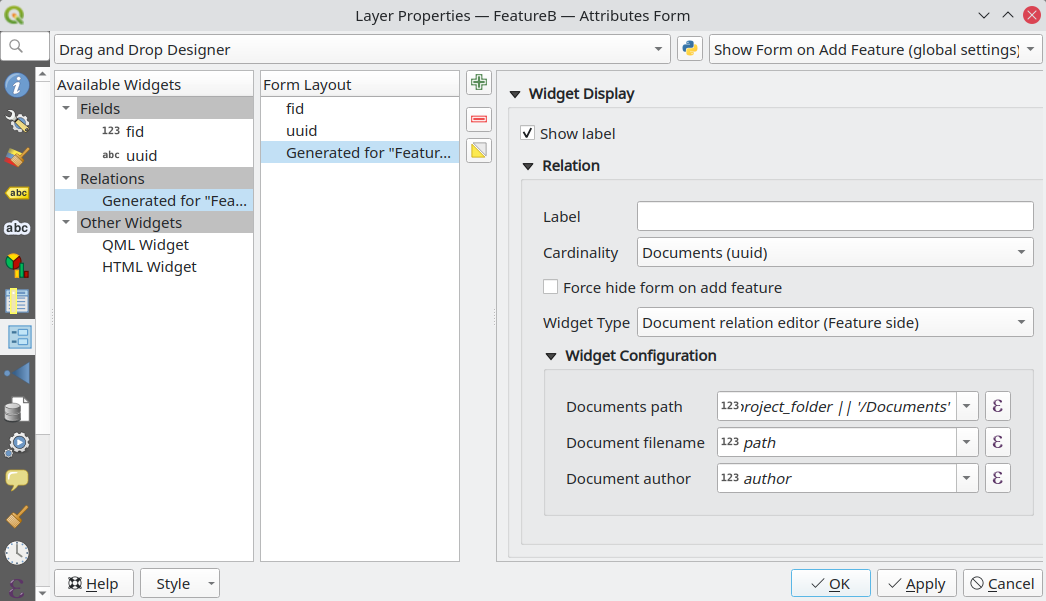
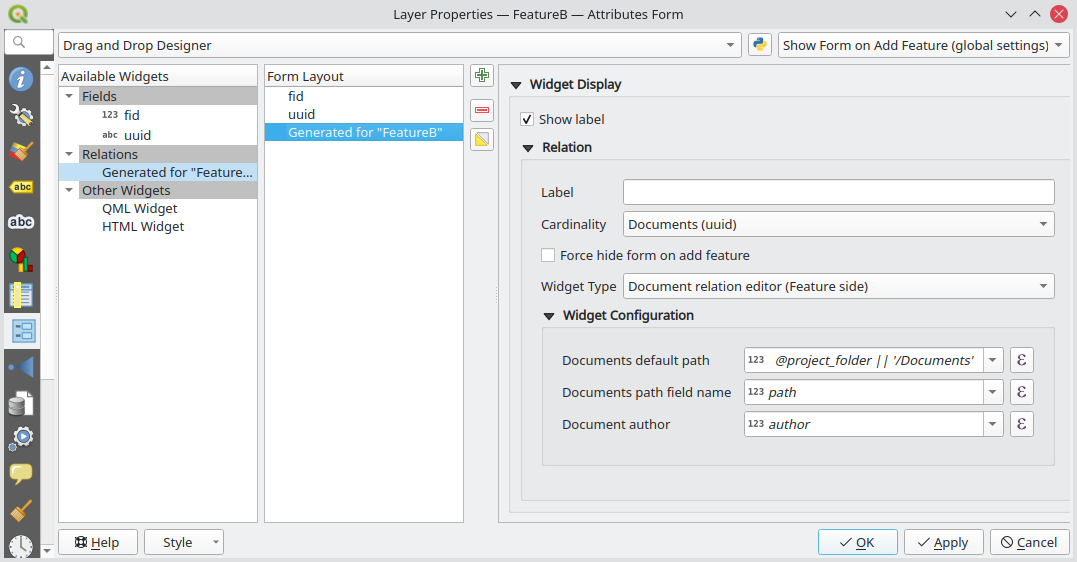
Some documentation...

diff --git a/README.md b/README.md
@@ -1,13 +1,13 @@
 # Document Management System plugin for QGIS
 
 ## What
-A document management plugin to help managing relations between a documents table and features.
+A document management plugin to help managing relations between a document table and one or more feature tables.
 
 ## Configuration
 
 ### Relations
-The relation/s between the Document table and the Feature/s table/s must be configured by hand
-in the usal way in Project -> Properties -> Relations.
+The relation/s between the Document table and the Feature/s table/s must be configured by hand in the usual way in Project -> Properties -> Relations.
+Please refer to the QGIS documentation for how to setup [relations](https://docs.qgis.org/testing/en/docs/user_manual/working_with_vector/attribute_table.html#vector-relations) or [polymorphic relations](https://docs.qgis.org/testing/en/docs/user_manual/working_with_vector/attribute_table.html#introducing-polymorphic-relations).
 
 ### Document side
 
@@ -43,8 +43,8 @@ Set to *Document relation editor (Feature side)*
   
 #### Widget configuration
 
-* **Document path:** An expression to the default path for documents.
-* **Document filename:** The field containing the document filename.
+* **Documents default path:** An expression to the default path for documents. This is in most cases the same expression as for the attachment widget's default path in the documents table attribute form. For example `@project_folder || '/Documents'`
+* **Documents path field name:** The name of the field containing the filename in the documents table.
 * **Document author:** An expression for the author of the document.
 
 
